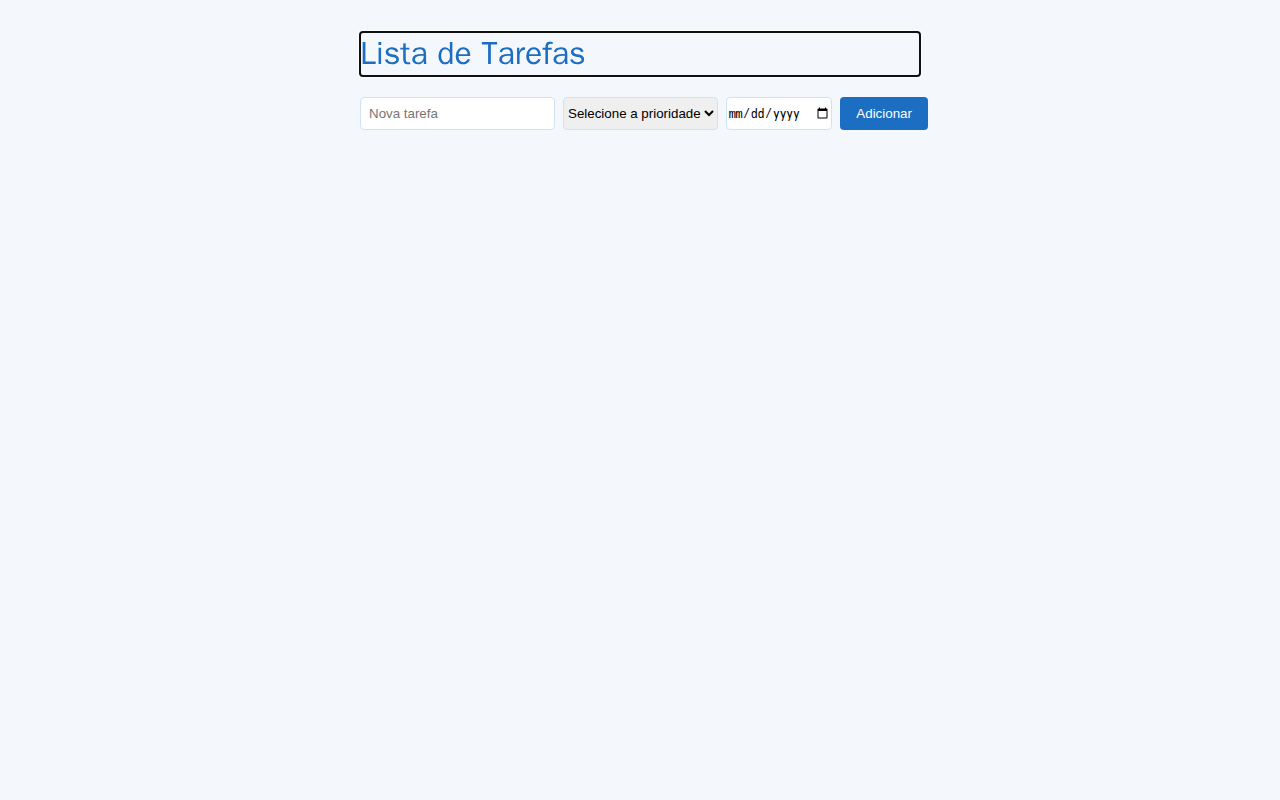
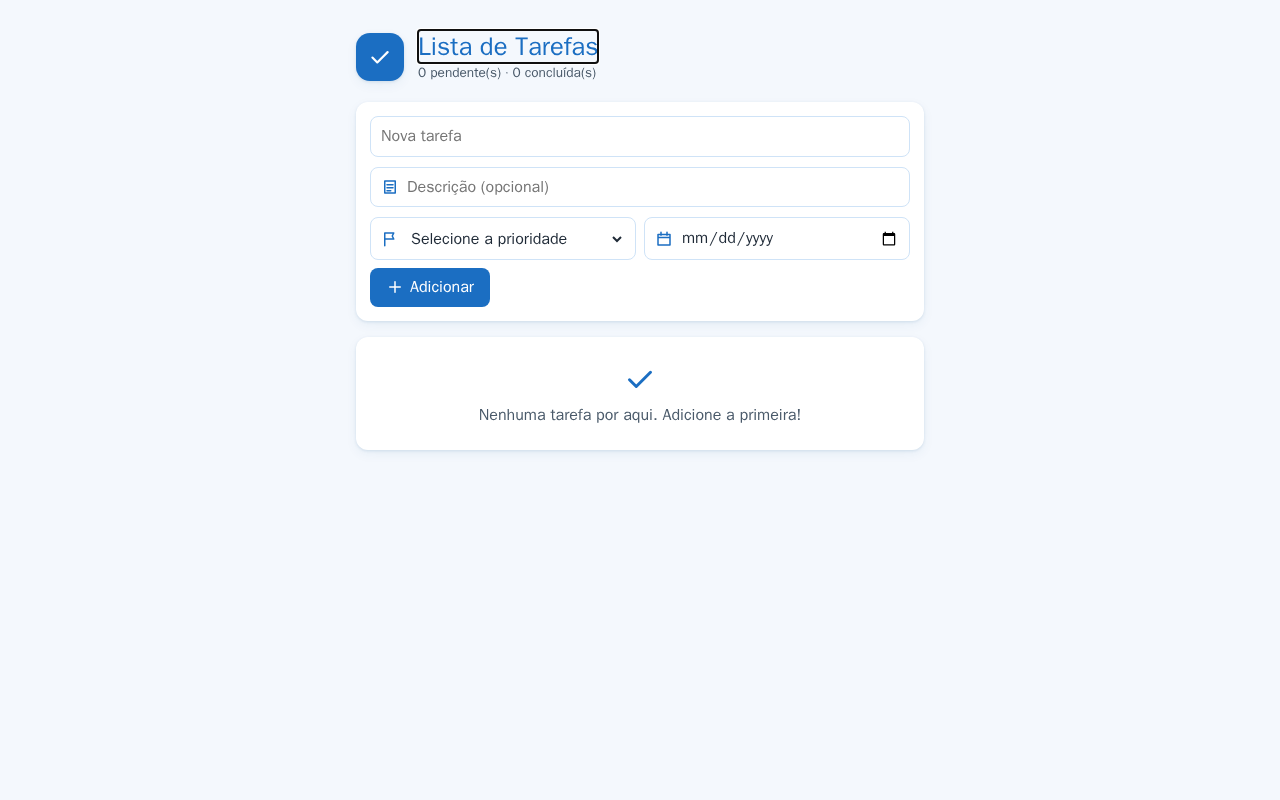
feat: card 5 - Design Moderno
Generated by agent-poc. Needs human review.

diff --git a/src/TodoList.Web/wwwroot/css/app.css b/src/TodoList.Web/wwwroot/css/app.css
@@ -4,27 +4,52 @@
     --color-primary-light: #cfe3f7;
     --color-surface: #f4f8fd;
     --color-on-primary: #fff;
+    --radius: 12px;
+    --shadow: 0 1px 3px rgba(20, 85, 143, .12), 0 4px 12px rgba(20, 85, 143, .06);
 }
-body { font-family: system-ui, sans-serif; max-width: 560px; margin: 2rem auto; padding: 0 1rem; background: var(--color-surface); accent-color: var(--color-primary); }
-h1 { color: var(--color-primary); }
-form { display: flex; gap: .5rem; margin-bottom: 1rem; }
-input, select { border: 1px solid var(--color-primary-light); border-radius: 4px; }
+* { box-sizing: border-box; }
+body { font-family: system-ui, sans-serif; max-width: 600px; margin: 2rem auto; padding: 0 1rem; background: var(--color-surface); accent-color: var(--color-primary); color: #1f2a37; }
+.icon { flex: none; vertical-align: -.2em; }
+.app-header { display: flex; align-items: center; gap: .875rem; margin-bottom: 1.25rem; }
+.logo { display: grid; place-items: center; width: 48px; height: 48px; border-radius: 14px; background: var(--color-primary); color: var(--color-on-primary); box-shadow: var(--shadow); }
+h1 { color: var(--color-primary); margin: 0; font-size: 1.6rem; line-height: 1.2; }
+.counter { margin: .1rem 0 0; font-size: .85rem; color: #4a5a6a; }
+.card { background: #fff; border-radius: var(--radius); box-shadow: var(--shadow); padding: .875rem; }
+form { display: flex; flex-direction: column; gap: .625rem; margin-bottom: 1rem; }
+.row { display: flex; flex-wrap: wrap; gap: .5rem; }
+.field { display: flex; align-items: center; gap: .5rem; padding: 0 .625rem; border: 1px solid var(--color-primary-light); border-radius: 8px; background: #fff; color: var(--color-primary); }
+.field:focus-within { outline: 2px solid var(--color-primary); outline-offset: 1px; }
+.field input, .field select { border: 0; background: transparent; padding: .55rem 0; color: #1f2a37; min-width: 0; flex: 1; }
+.field input:focus, .field select:focus { outline: 0; }
+form > .field { width: 100%; }
+.row .field { flex: 1 1 10rem; }
+input, select { border: 1px solid var(--color-primary-light); border-radius: 8px; font: inherit; }
 input:focus, select:focus { outline: 2px solid var(--color-primary); outline-offset: 1px; }
-input[type=text] { flex: 1; padding: .5rem; }
-button { background: var(--color-primary); color: var(--color-on-primary); border: 0; border-radius: 4px; padding: .5rem 1rem; cursor: pointer; }
+input[type=text] { flex: 1; padding: .55rem .625rem; }
+.field input[type=text] { padding: .55rem 0; }
+button { display: inline-flex; align-items: center; justify-content: center; gap: .375rem; background: var(--color-primary); color: var(--color-on-primary); border: 0; border-radius: 8px; padding: .55rem 1rem; font: inherit; cursor: pointer; }
 button:hover { background: var(--color-primary-dark); }
 button:focus-visible { outline: 2px solid var(--color-primary-dark); outline-offset: 2px; }
 button:disabled { background: var(--color-primary-light); color: #4a6a8a; cursor: not-allowed; }
-ul { list-style: none; padding: 0; }
-li { display: flex; align-items: center; gap: .5rem; padding: .5rem 0; border-bottom: 1px solid var(--color-primary-light); }
-li.done .title { text-decoration: line-through; color: #888; }
-.title { flex: 1; }
-.due { font-size: .8rem; color: #666; }
-.priority { font-size: .8rem; padding: .1rem .4rem; border-radius: 4px; }
+ul { list-style: none; padding: 0; margin: 0; display: flex; flex-direction: column; gap: .625rem; }
+li { display: flex; align-items: center; gap: .75rem; }
+li input[type=checkbox] { width: 1.25rem; height: 1.25rem; flex: none; }
+li .body { flex: 1; min-width: 0; display: flex; flex-direction: column; gap: .25rem; }
+li.done .title { text-decoration: line-through; color: #6b7280; }
+.title { font-weight: 600; overflow-wrap: anywhere; }
+.description { font-size: .875rem; color: #4a5a6a; overflow-wrap: anywhere; }
+.meta { display: flex; flex-wrap: wrap; gap: .375rem; }
+.due, .priority { display: inline-flex; align-items: center; gap: .25rem; font-size: .75rem; padding: .15rem .5rem; border-radius: 999px; }
+.due { background: #e8eef5; color: #3d4b5a; }
 .priority.baixa { background: #e3f2e1; color: #2e6b27; }
 .priority.media { background: #fff3cd; color: #7a5b00; }
 .priority.alta { background: #f8d7da; color: #8a1c24; }
-.message { margin: 0 0 1rem; padding: .5rem .75rem; border-radius: 4px; }
+button.remove { background: transparent; color: #8a1c24; padding: .4rem; }
+button.remove:hover { background: #f8d7da; }
+.empty { display: flex; flex-direction: column; align-items: center; gap: .5rem; color: #4a5a6a; text-align: center; padding: 1.5rem; }
+.empty .icon { color: var(--color-primary); }
+.empty p { margin: 0; }
+.message { margin: 0 0 1rem; padding: .5rem .75rem; border-radius: 8px; }
 .message.error { background: #f8d7da; color: #8a1c24; }
 .message.warning { background: #fff3cd; color: #7a5b00; }
 
@@ -50,36 +75,16 @@ li.done .title { text-decoration: line-through; color: #888; }
         top: 0.5rem;
     }
 
-.loading-progress {
-    position: absolute;
-    display: block;
-    width: 8rem;
-    height: 8rem;
-    inset: 20vh 0 auto 0;
-    margin: 0 auto 0 auto;
-}
-
-    .loading-progress circle {
-        fill: none;
-        stroke: #e0e0e0;
-        stroke-width: 0.6rem;
-        transform-origin: 50% 50%;
-        transform: rotate(-90deg);
-    }
-
-        .loading-progress circle:last-child {
-            stroke: var(--color-primary);
-            stroke-dasharray: calc(3.141 * var(--blazor-load-percentage, 0%) * 0.8), 500%;
-            transition: stroke-dasharray 0.05s ease-in-out;
-        }
-
-.loading-progress-text {
-    position: absolute;
-    text-align: center;
-    font-weight: bold;
-    inset: calc(20vh + 3.25rem) 0 auto 0.2rem;
-}
+/* Splash screen (inside #app until Blazor starts) */
+.splash { position: fixed; inset: 0; display: flex; flex-direction: column; align-items: center; justify-content: center; gap: 1rem; background: var(--color-surface); }
+.splash-logo { animation: splash-pop .8s ease-out; filter: drop-shadow(0 4px 12px rgba(20, 85, 143, .3)); }
+.splash-name { font-size: 1.5rem; font-weight: 700; color: var(--color-primary); }
+.splash-bar { width: 12rem; height: .375rem; border-radius: 999px; background: var(--color-primary-light); overflow: hidden; }
+.splash-bar-fill { height: 100%; width: var(--blazor-load-percentage, 0%); background: var(--color-primary); transition: width .05s ease-in-out; }
+.loading-progress-text { font-size: .875rem; color: #4a5a6a; }
 
     .loading-progress-text:after {
         content: var(--blazor-load-percentage-text, "Carregando");
     }
+
+@keyframes splash-pop { from { transform: scale(.6); opacity: 0; } to { transform: scale(1); opacity: 1; } }

diff --git a/src/TodoList.Web/wwwroot/index.html b/src/TodoList.Web/wwwroot/index.html
@@ -9,6 +9,8 @@
     <title>Lista de Tarefas</title>
     <!-- The deploy workflow rewrites this to /<repository-name>/ for GitHub Pages. -->
     <base href="/" />
+    <link rel="icon" type="image/svg+xml" href="favicon.svg" />
+    <link rel="apple-touch-icon" href="favicon.svg" />
     <link rel="preload" id="webassembly" />
     <link rel="stylesheet" href="css/app.css" />
     <script type="importmap"></script>
@@ -16,11 +18,17 @@
 
 <body>
     <div id="app">
-        <svg class="loading-progress">
-            <circle r="40%" cx="50%" cy="50%" />
-            <circle r="40%" cx="50%" cy="50%" />
-        </svg>
-        <div class="loading-progress-text"></div>
+        <div class="splash">
+            <div class="splash-logo">
+                <svg viewBox="0 0 64 64" width="72" height="72" aria-hidden="true">
+                    <rect width="64" height="64" rx="14" fill="#1b6ec2" />
+                    <path d="M18 33l10 10 18-22" fill="none" stroke="#fff" stroke-width="7" stroke-linecap="round" stroke-linejoin="round" />
+                </svg>
+            </div>
+            <div class="splash-name">Lista de Tarefas</div>
+            <div class="splash-bar"><div class="splash-bar-fill"></div></div>
+            <div class="loading-progress-text"></div>
+        </div>
     </div>
 
     <div id="blazor-error-ui">

diff --git a/.agent/data.js b/.agent/data.js
@@ -1,0 +1,18 @@
+const { chromium } = require(require('child_process').execSync('npm root -g').toString().trim() + '/playwright');
+(async () => {
+  const b = await chromium.launch();
+  const p = await b.newPage({ viewport: { width: 420, height: 800 } });
+  const errs = [];
+  p.on('console', m => m.type() === 'error' && errs.push(m.text()));
+  await p.goto('http://localhost:5080');
+  await p.waitForSelector('#form');
+  for (const [t, d, pr] of [['Comprar leite', 'Integral, 2 caixas', 'Alta'], ['Estudar Blazor', '', 'Media']]) {
+    await p.fill('#title', t); await p.fill('#description', d);
+    await p.selectOption('#priority', pr); await p.fill('#dueDate', '2030-01-15');
+    await p.click('button[type=submit]');
+  }
+  await p.check('li:nth-child(2) input[type=checkbox]');
+  await p.screenshot({ path: '.agent/screenshots/data.png' });
+  console.log('errors', errs);
+  await b.close();
+})();

diff --git a/src/TodoList.Web/Services/TodoService.cs b/src/TodoList.Web/Services/TodoService.cs
@@ -12,11 +12,14 @@ public sealed record AddResult(bool Ok, string? Error, TodoItem? Item)
 public sealed class TodoService(ITodoStore store)
 {
     public const int MaxTitleLength = 200;
+    public const int MaxDescriptionLength = 500;
 
     private List<TodoItem> _items = [];
     private bool _initialized;
 
     public IReadOnlyList<TodoItem> Items => _items;
+    public int PendingCount => _items.Count(t => !t.Done);
+    public int DoneCount => _items.Count(t => t.Done);
 
     /// <summary>Set when the browser could not read or write the saved tasks; null when everything is fine.</summary>
     public string? StorageError { get; private set; }
@@ -37,15 +40,18 @@ public sealed class TodoService(ITodoStore store)
         }
     }
 
-    public async Task<AddResult> AddAsync(string? title, Priority? priority, DateOnly? dueDate)
+    public async Task<AddResult> AddAsync(string? title, Priority? priority, DateOnly? dueDate, string? description = null)
     {
         var clean = title?.Trim() ?? "";
         if (clean.Length == 0) return AddResult.Fail("Escreva o título da tarefa.");
         if (clean.Length > MaxTitleLength) return AddResult.Fail($"O título pode ter no máximo {MaxTitleLength} caracteres.");
         if (priority is null) return AddResult.Fail("Escolha a prioridade.");
+        var note = description?.Trim();
+        if (note?.Length > MaxDescriptionLength) return AddResult.Fail($"A descrição pode ter no máximo {MaxDescriptionLength} caracteres.");
+        if (string.IsNullOrEmpty(note)) note = null;
 
         var id = _items.Count == 0 ? 1 : _items.Max(t => t.Id) + 1;
-        var item = new TodoItem(id, clean, false, priority.Value, dueDate);
+        var item = new TodoItem(id, clean, false, priority.Value, dueDate, note);
         _items.Add(item);
         await PersistAsync();
         return AddResult.Success(item);

diff --git a/tests/TodoList.Tests/TodoServiceTests.cs b/tests/TodoList.Tests/TodoServiceTests.cs
@@ -114,6 +114,59 @@ public class TodoServiceTests
         Assert.Empty(_service.Items);
     }
 
+    [Fact]
+    public async Task Add_WithDescription_TrimsAndStoresIt()
+    {
+        await _service.InitializeAsync();
+
+        await _service.AddAsync("A", Priority.Baixa, null, "  detalhes  ");
+
+        Assert.Equal("detalhes", Assert.Single(_store.Saved).Description);
+    }
+
+    [Theory]
+    [InlineData(null)]
+    [InlineData("   ")]
+    public async Task Add_WithBlankDescription_StoresNull(string? description)
+    {
+        await _service.InitializeAsync();
+
+        await _service.AddAsync("A", Priority.Baixa, null, description);
+
+        Assert.Null(Assert.Single(_store.Saved).Description);
+    }
+
+    [Fact]
+    public async Task Add_WithTooLongDescription_IsRejected()
+    {
+        await _service.InitializeAsync();
+
+        var result = await _service.AddAsync("A", Priority.Baixa, null, new string('x', TodoService.MaxDescriptionLength + 1));
+
+        Assert.False(result.Ok);
+        Assert.Empty(_store.Saved);
+    }
+
+    [Fact]
+    public async Task Counters_SeparatePendingFromDone()
+    {
+        await _service.InitializeAsync();
+        await _service.AddAsync("A", Priority.Baixa, null);
+        await _service.AddAsync("B", Priority.Baixa, null);
+        await _service.ToggleAsync(1);
+
+        Assert.Equal(1, _service.PendingCount);
+        Assert.Equal(1, _service.DoneCount);
+    }
+
+    [Fact]
+    public void Deserialize_OfOldDataWithoutDescription_Works()
+    {
+        var items = TodoSerializer.Deserialize("[{\"id\":1,\"title\":\"A\",\"done\":false,\"priority\":\"Alta\"}]");
+
+        Assert.Null(Assert.Single(items).Description);
+    }
+
     // ---- toggle and remove --------------------------------------------------------
 
     [Fact]

diff --git a/src/TodoList.Web/Models/TodoItem.cs b/src/TodoList.Web/Models/TodoItem.cs
@@ -1,3 +1,3 @@
 namespace TodoList.Web.Models;
 
-public sealed record TodoItem(int Id, string Title, bool Done, Priority Priority, DateOnly? DueDate = null);
+public sealed record TodoItem(int Id, string Title, bool Done, Priority Priority, DateOnly? DueDate = null, string? Description = null);
